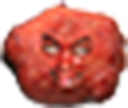
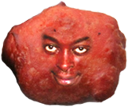
Added in Abe pakora

diff --git a/src/js/game.js b/src/js/game.js
@@ -27,32 +27,48 @@
         this.robsLarge = this.game.add.group();
         this.rickysLarge = this.game.add.group();
         this.craigsLarge = this.game.add.group();
+        this.abesLarge = this.game.add.group();
+
         this.robsMedium = this.game.add.group();
         this.rickysMedium = this.game.add.group();
         this.craigsMedium = this.game.add.group();
+        this.abesMedium = this.game.add.group();
+
         this.robsSmall = this.game.add.group();
         this.rickysSmall = this.game.add.group();
         this.craigsSmall = this.game.add.group();
+        this.abesSmall = this.game.add.group();
 
         this.robsLarge.enableBody=true;
         this.rickysLarge.enableBody=true;
         this.craigsLarge.enableBody=true;
+        this.abesLarge.enableBody=true;
+
         this.robsMedium.enableBody=true;
         this.rickysMedium.enableBody=true;
         this.craigsMedium.enableBody=true;
+        this.abesMedium.enableBody=true;
+
+
         this.robsSmall.enableBody=true;
         this.rickysSmall.enableBody=true;
         this.craigsSmall.enableBody=true;
+        this.abesSmall.enableBody = true;
 
         this.robsLarge.physicsBodyType = Phaser.Physics.P2JS;
         this.rickysLarge.physicsBodyType = Phaser.Physics.P2JS;
         this.craigsLarge.physicsBodyType = Phaser.Physics.P2JS;
+        this.abesLarge.physicsBodyType = Phaser.Physics.P2JS;
+
         this.robsMedium.physicsBodyType = Phaser.Physics.P2JS;
         this.rickysMedium.physicsBodyType = Phaser.Physics.P2JS;
         this.craigsMedium.physicsBodyType = Phaser.Physics.P2JS;
+        this.abesMedium.physicsBodyType = Phaser.Physics.P2JS;
+
         this.robsSmall.physicsBodyType = Phaser.Physics.P2JS;
         this.rickysSmall.physicsBodyType = Phaser.Physics.P2JS;
         this.craigsSmall.physicsBodyType = Phaser.Physics.P2JS;
+        this.abesSmall.physicsBodyType = Phaser.Physics.P2JS;
 
         this.danPowerUp = this.game.add.group();
         this.danPowerUp.enableBody = true;
@@ -82,7 +98,9 @@
           "craigsamlarge": "craigsammedium",
           "craigsammedium": "craigsamsmall",
           "rickypaklarge": "rickypakmedium",
-          "rickypakmedium": "rickypaksmall"
+          "rickypakmedium": "rickypaksmall",
+          "abepaklarge" : "abepakmedium",
+          "abepakmedium":"abepaksmall"
         }
 
         this.fisheye = new Phaser.Filter(this, null, this.cache.getShader('fisheye'));
@@ -165,6 +183,10 @@
           this.playerPosText.fixedToCamera = true;
           this.psychText.fixedToCamera = true;
         }
+        this.gui = this.game.add.sprite(0,0,'gui');
+        this.gui.scale.x = 1.6;
+        this.gui.scale.y = 1.6;
+       // this.gui.fixedToCamera =true;
         this.livesText = this.game.add.text( this.game.width - 170, 40, 'Lives: ', { font: '16px Arial', fill: '#ffffff' } );
         this.livesText.fixedToCamera = true;
         this.livesText.font = 'Revalia';
@@ -229,9 +251,6 @@
         this.pakoraBang.allowMultiple = true;
         this.pakoraBang.addMarker('pakora_bang',0,1);
 
-        this.buttonNoise = this.add.audio('button');
-        this.buttonNoise.allowMultiple = true;
-        this.buttonNoise.addMarker('button',0,1);
       },
 
     update: function () {
@@ -285,7 +304,7 @@
       }
     },
     spawnPakora: function() {
-      var pakType = this.game.rnd.integerInRange(0, 2);
+      var pakType = this.game.rnd.integerInRange(0, 3);
       switch (pakType){
         case 0:
           var asteroid = this.robsLarge.create(this.game.rnd.integerInRange(this.game.LBOUNDX, this.game.UBOUNDX),
@@ -298,6 +317,10 @@
         case 2:
           var asteroid = this.rickysLarge.create(this.game.rnd.integerInRange(this.game.LBOUNDX, this.game.UBOUNDX),
                                               this.game.rnd.integerInRange(this.game.LBOUNDY,this.game.UBOUNDY), 'rickypaklarge');
+          break;
+        case 3:
+          var asteroid = this.abesLarge.create(this.game.rnd.integerInRange(this.game.LBOUNDX, this.game.UBOUNDX),
+                                              this.game.rnd.integerInRange(this.game.LBOUNDY,this.game.UBOUNDY), 'abepaklarge');
           break;
       }
       asteroid.body.setCollisionGroup(this.pakoraCollisionGroup);

diff --git a/src/js/preloader.js b/src/js/preloader.js
@@ -10,28 +10,41 @@
     preload: function () {
       this.asset = this.add.sprite(this.game.width * 0.5 - 110, this.game.height * 0.5 - 10, 'preloader');
       this.load.setPreloadSprite(this.asset);
+
       this.load.image('andy', 'assets/images/pakora/small/andy-crinkle-cut-chip.png');
       this.load.image('andy_lemon', 'assets/images/pakora/small/andrew-lemon-wedge.png');
+
       this.load.image('robpaklarge', 'assets/images/pakora/big/rob-pakosha_360.png');
       this.load.image('robpakmedium', 'assets/images/pakora/medium/rob-pakosha_360.png');
       this.load.image('robpaksmall', 'assets/images/pakora/small/rob-pakosha_360.png');
+
       this.load.image('rickypaklarge', 'assets/images/pakora/big/ricky-pakora.png');
       this.load.image('rickypakmedium', 'assets/images/pakora/medium/ricky-pakora.png');
       this.load.image('rickypaksmall', 'assets/images/pakora/small/ricky-pakora.png');
+
       this.load.image('craigsamlarge', 'assets/images/pakora/big/craig-samosa.png');
       this.load.image('craigsammedium', 'assets/images/pakora/medium/craig-samosa.png');
       this.load.image('craigsamsmall', 'assets/images/pakora/small/craig-samosa.png');
+
+      this.load.image('abepaklarge','assets/images/pakora//big/abe-pakora.png');
+      this.load.image('abepakmedium','assets/images/pakora/medium/abe-pakora.png' );
+      this.load.image('abepaksmall', 'assets/images/pakora/small/abe-pakora.png');
+
       this.load.image('dandip', 'assets/images/pakora/dan-dip-small.png');
       this.load.image('danpsych', 'assets/images/pakora/dan-dip-small-psych.png');
       this.load.image('scrangleherb', 'assets/images/pakora/small/scrangle-leaf_360.png');
+      this.load.image('pete_gerkin_pickup', 'assets/images/pakora/Pete-Gerkin.png');
+      this.load.image('pete_beard','assets/images/pakora/Pete-Gerkin-Beard.png');
 
       this.load.image('life', 'assets/images/gui/life.png');
+
       this.load.shader('fisheye', 'assets/shaders/Fisheye.frag');
 
       this.load.image('bullet','assets/images/splodge.png');
 
 
       this.load.image('background','assets/images/space.png');
+      this.load.image('gui', 'assets/images/gui/pakoroids_gui.png');
 
       this.load.image('arrows', 'assets/images/gui/keys.png');
       this.load.image('space_bar', 'assets/images/gui/space.png');

diff --git a/src/js/gameover.js b/src/js/gameover.js
@@ -36,6 +36,7 @@
       socket.on('scores', function (scores) {
         window.scores = scores
       })
+
       this.background = this.game.add.tileSprite(0, 0,1366,768, 'background');
 
       this.world.setBounds(0, 0, 1024, 768);
